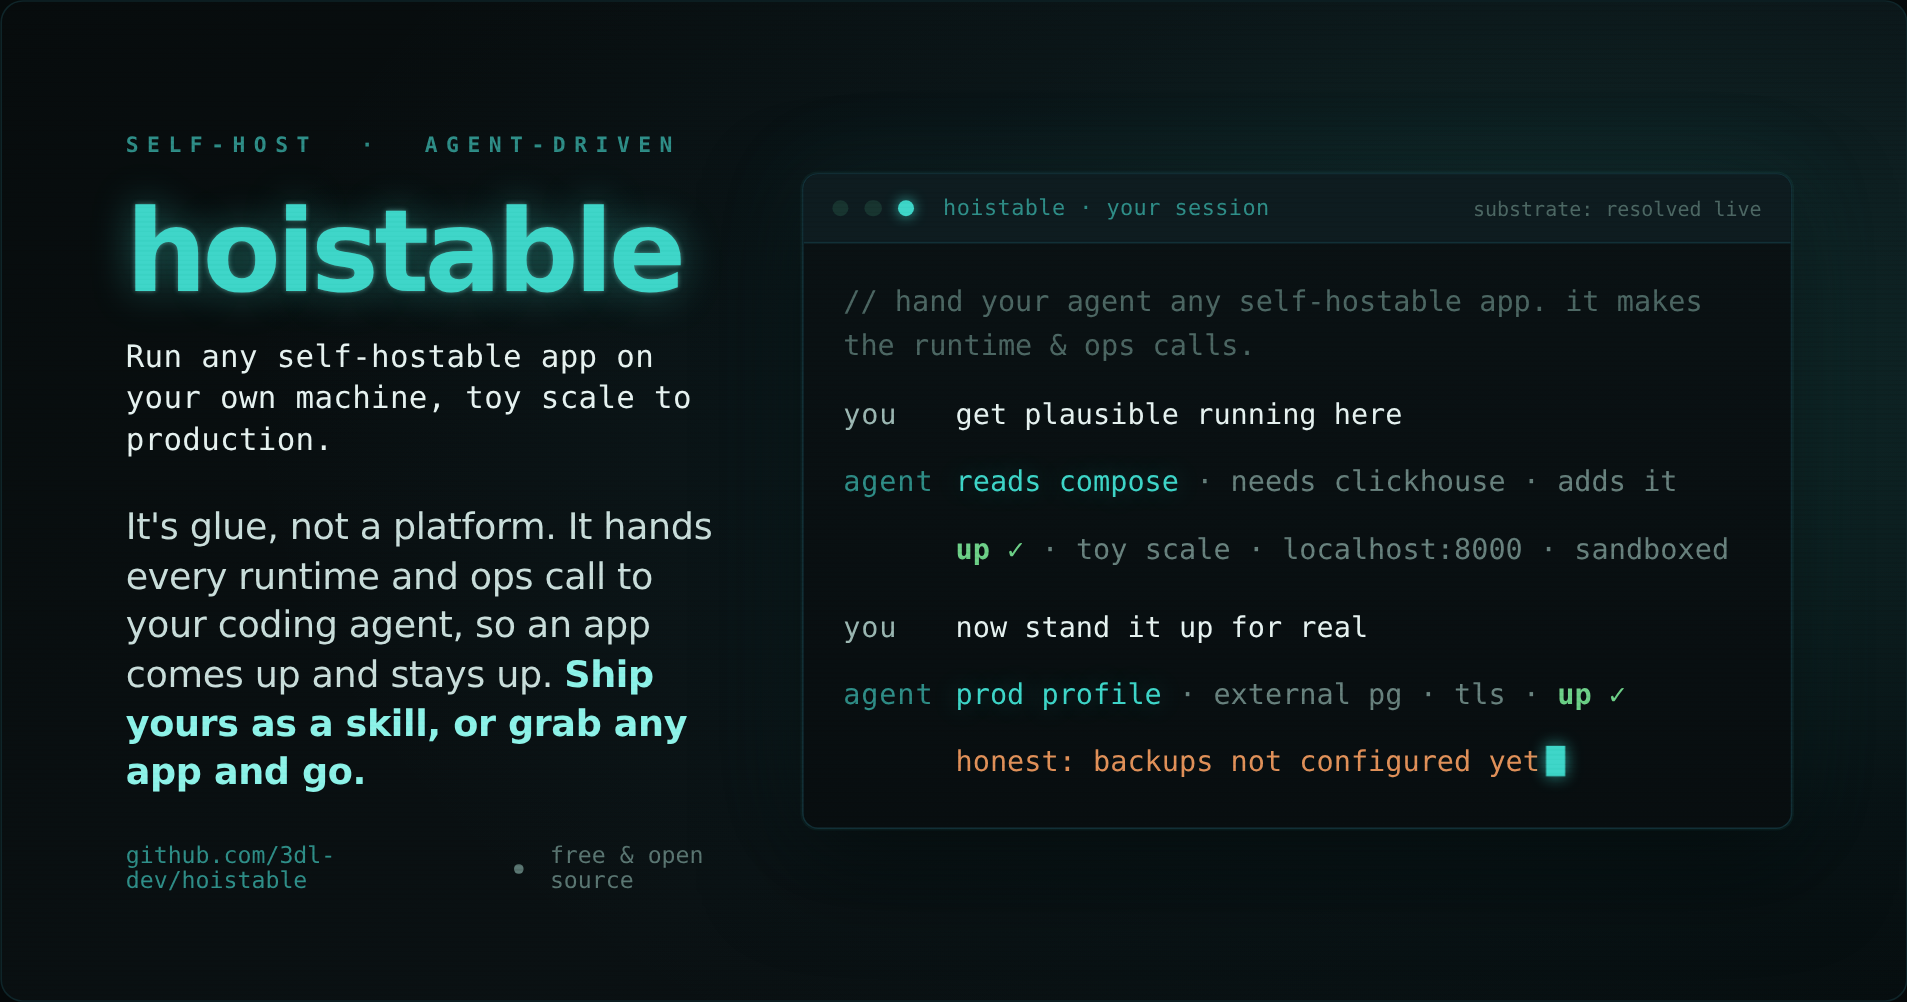
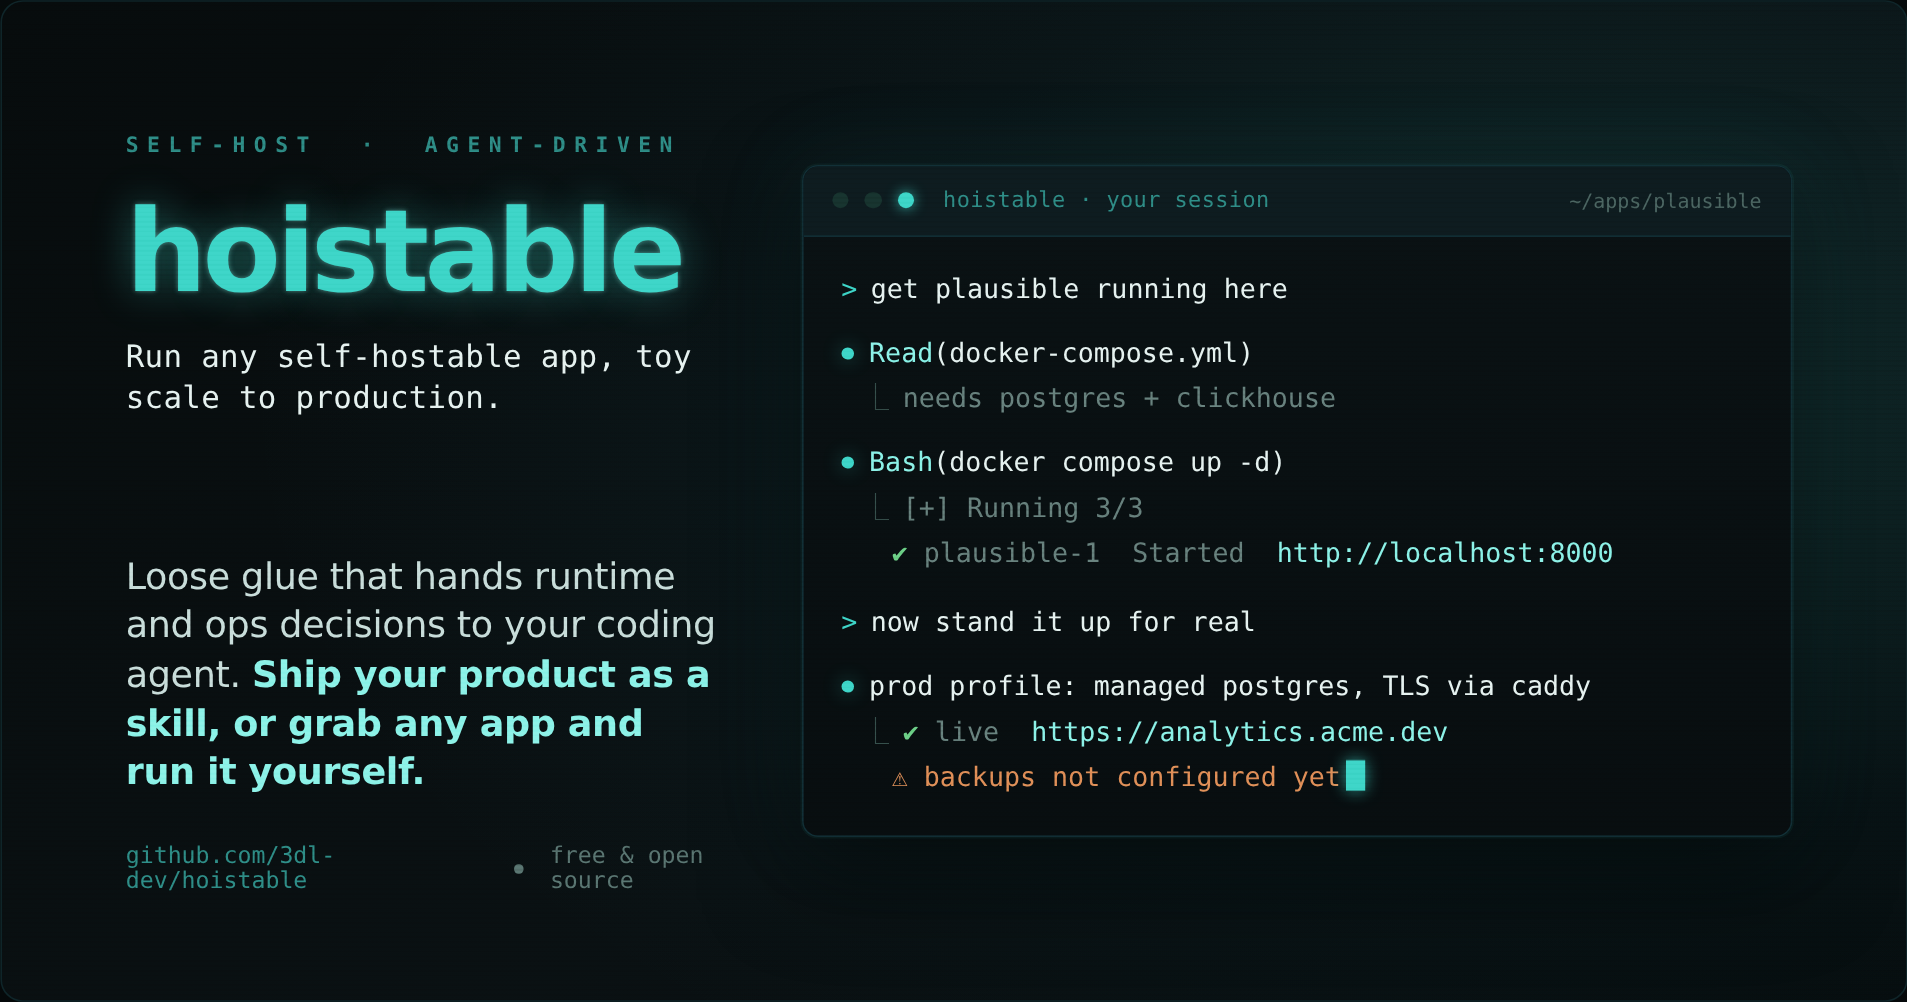
docs: rework the unfurl per review
- strike 'on your own machine' from the tagline
- kicker in Baron's framing, drop the 'It's X, not Y' AI antithesis (avoid-ai-writing P1)
- rebuild the panel as a real agent transcript (prompts, tool calls, result branches,
  docker output, honest backups warning), not a stylized you/agent chat
- no em-dashes; truecolor 764KB, under GitHub's 1MB cap

diff --git a/docs/hoistable-hero.html b/docs/hoistable-hero.html
@@ -83,19 +83,18 @@
   .bar .who{margin-left:.6cqw;font-size:1.15cqw;color:var(--teal-dim);letter-spacing:.02em}
   .bar .stat{margin-left:auto;font-size:1.05cqw;color:#4d6864}
 
-  .body{padding:1.9cqw 2.1cqw 2.1cqw; font-size:1.5cqw; line-height:1.6}
-  .sys{color:#4d6864}
-  .row{margin-top:1.15cqw}
-  .tag{
-    display:inline-block; width:5.9cqw; padding-right:1.2cqw; color:var(--teal-dim);
-    text-transform:lowercase; letter-spacing:.03em;
-  }
-  .tag.you{color:#9db8b3}
-  .you-in{color:var(--cream)}
-  .act{color:var(--teal);text-shadow:0 0 16px rgba(63,214,201,.3)}
-  .dim{color:#6a8480}
-  .up{color:var(--ok); font-weight:600}
-  .honest{color:var(--decline)}
+  .body{padding:1.8cqw 2cqw 1.9cqw; font-size:1.4cqw; line-height:1.5}
+  .q{color:var(--cream); margin-top:1.5cqw}
+  .q:first-child{margin-top:0}
+  .q .p{color:var(--teal); margin-right:.7cqw}
+  .call{color:var(--cream); margin-top:1.25cqw}
+  .call .m{color:var(--teal); margin-right:.7cqw; text-shadow:0 0 12px rgba(63,214,201,.4)}
+  .call .fn{color:var(--teal-bright)}
+  .res{color:#6a8480; margin-top:.3cqw; padding-left:1.1cqw}
+  .res .b{color:#37514d; margin-right:.7cqw}
+  .ok{color:var(--ok)}
+  .warn{color:var(--decline)}
+  .url{color:var(--teal-bright)}
   .cur{
     display:inline-block;width:1cqw;height:1.6cqw;vertical-align:-.25cqw;
     background:var(--teal);margin-left:.3cqw;box-shadow:0 0 10px rgba(63,214,201,.7);
@@ -111,9 +110,9 @@
       <div class="left">
         <div class="eyebrow">Self-host &nbsp;·&nbsp; agent-driven</div>
         <div class="wordmark">hoistable</div>
-        <div class="expand">Run any self-hostable app on your own machine, toy scale to production.</div>
+        <div class="expand">Run any self-hostable app, toy scale to production.</div>
 
-        <div class="kicker">It's glue, not a platform. It hands every runtime and ops call to your coding agent, so an app comes up and stays up. <b>Ship yours as a skill, or grab any app and go.</b></div>
+        <div class="kicker">Loose glue that hands runtime and ops decisions to your coding agent. <b>Ship your product as a skill, or grab any app and run it yourself.</b></div>
         <div class="foot">
           <span class="repo">github.com/3dl-dev/hoistable</span>
           <span class="dot"></span>
@@ -126,18 +125,23 @@
           <div class="bar">
             <span class="led"></span><span class="led"></span><span class="led on"></span>
             <span class="who">hoistable · your session</span>
-            <span class="stat">substrate: resolved live</span>
+            <span class="stat">~/apps/plausible</span>
           </div>
           <div class="body">
-            <div class="sys">// hand your agent any self-hostable app. it makes the runtime &amp; ops calls.</div>
+            <div class="q"><span class="p">&gt;</span>get plausible running here</div>
 
-            <div class="row"><span class="tag you">you</span><span class="you-in">get plausible running here</span></div>
-            <div class="row"><span class="tag">agent</span><span class="act">reads compose</span> <span class="dim">· needs clickhouse · adds it</span></div>
-            <div class="row"><span class="tag"></span><span class="up">up ✓</span> <span class="dim">· toy scale · localhost:8000 · sandboxed</span></div>
+            <div class="call"><span class="m">⏺</span><span class="fn">Read</span>(docker-compose.yml)</div>
+            <div class="res"><span class="b">⎿</span>needs postgres + clickhouse</div>
 
-            <div class="row" style="margin-top:1.7cqw"><span class="tag you">you</span><span class="you-in">now stand it up for real</span></div>
-            <div class="row"><span class="tag">agent</span><span class="act">prod profile</span> <span class="dim">· external pg · tls ·</span> <span class="up">up&nbsp;✓</span></div>
-            <div class="row"><span class="tag"></span><span class="honest">honest: backups not configured yet</span><span class="cur"></span></div>
+            <div class="call"><span class="m">⏺</span><span class="fn">Bash</span>(docker compose up -d)</div>
+            <div class="res"><span class="b">⎿</span>[+] Running 3/3</div>
+            <div class="res"><span class="b">&nbsp;</span><span class="ok">✔</span> plausible-1 &nbsp;Started &nbsp;<span class="url">http://localhost:8000</span></div>
+
+            <div class="q"><span class="p">&gt;</span>now stand it up for real</div>
+
+            <div class="call"><span class="m">⏺</span>prod profile: managed postgres, TLS via caddy</div>
+            <div class="res"><span class="b">⎿</span><span class="ok">✔</span> live &nbsp;<span class="url">https://analytics.acme.dev</span></div>
+            <div class="res"><span class="b">&nbsp;</span><span class="warn">⚠ backups not configured yet</span><span class="cur"></span></div>
           </div>
         </div>
       </div>
